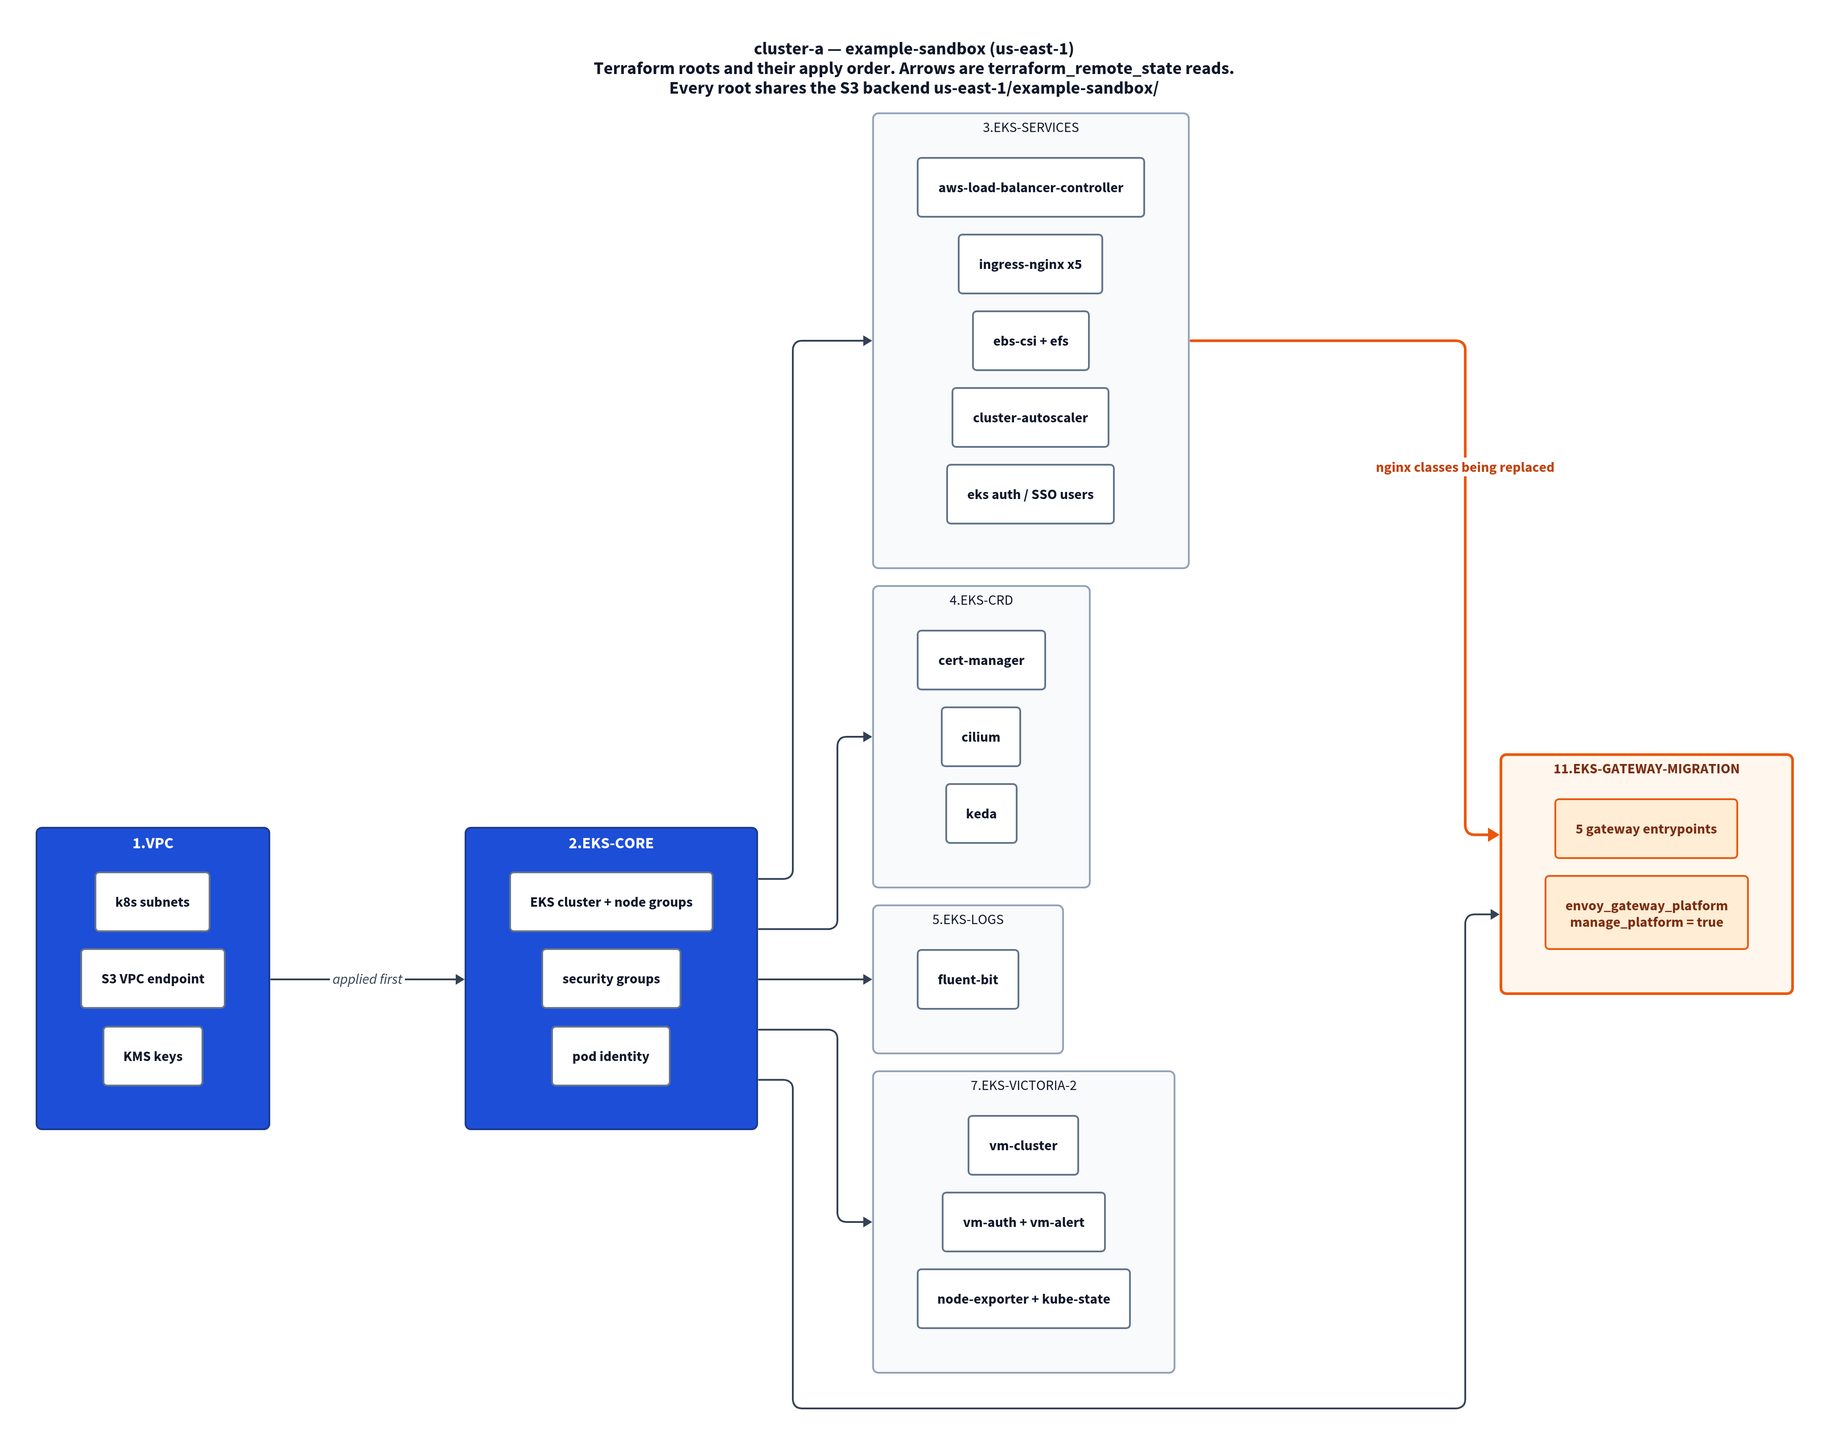
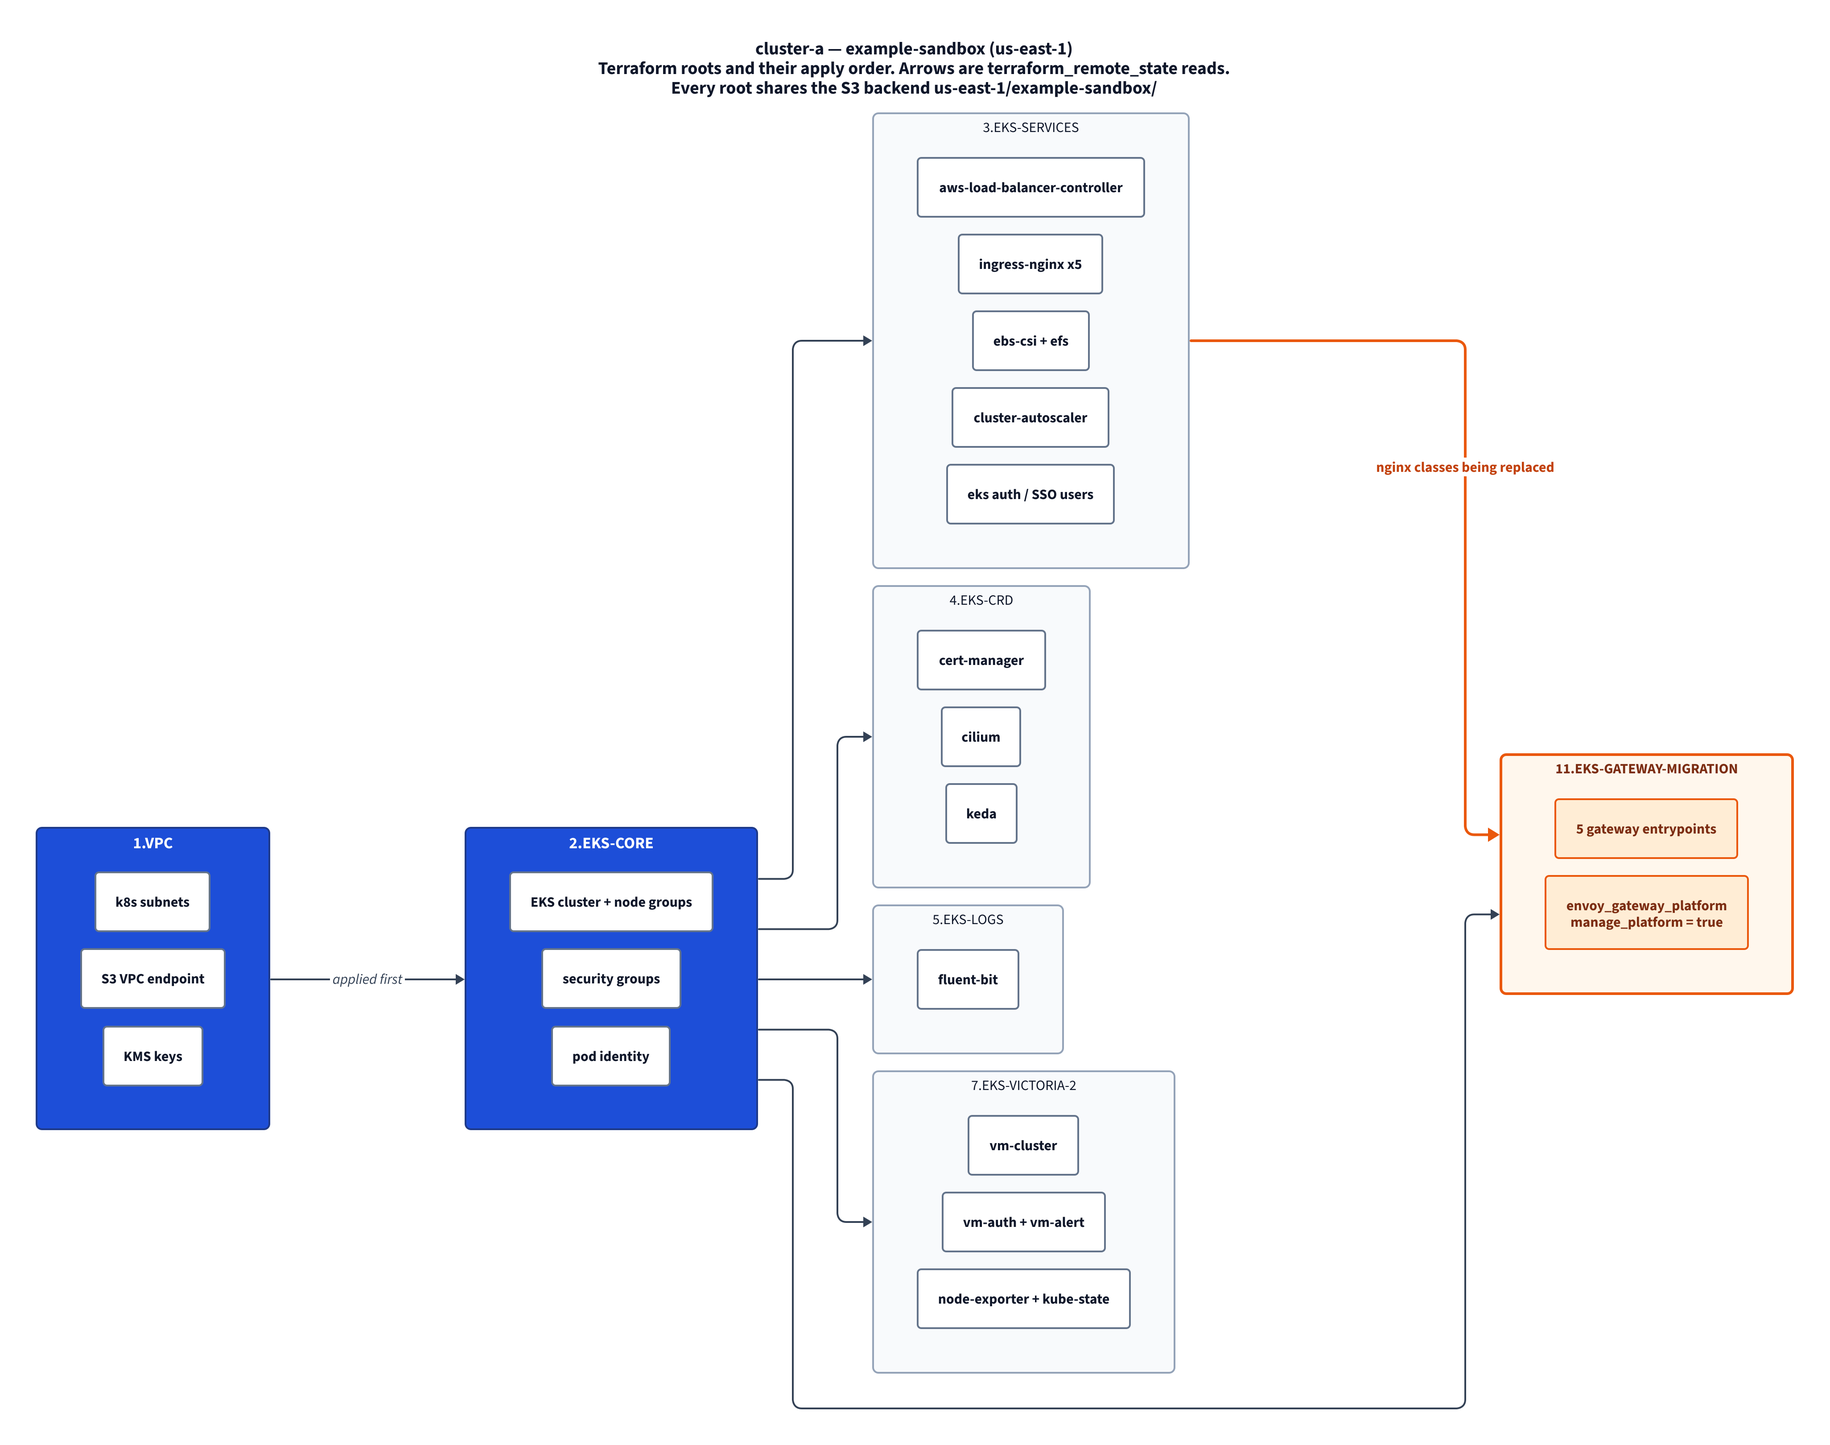
feat: the picture is rasterized without a browser, and with the right font
The browser was never a choice. D2's own PNG export downloads a Playwright
driver, and that download is dead on every platform now, not only arm64:
playwright.azureedge.net is retired and its replacement answers a redirect the
Go client inside D2 does not follow, so PLAYWRIGHT_DOWNLOAD_HOST turns the 404
into a 400. render.sh rasterizes the scratch SVG with rsvg-convert instead —
no browser, no driver cache, and the viewBox sets the canvas so there is no
window to size. A headless browser stays as the fallback; D2_BROWSER forces it.

Swapping the rasterizer alone produced a quietly wrong picture. librsvg ignores
the @font-face data URLs D2 embeds, measured the labels in DejaVu, and
unit_price_cents ran into bigint in the gallery. What D2 embeds is a cut-down
Source Sans Pro renamed per diagram, so no fontconfig alias can catch it: the
four text classes are rewritten to $D2_SANS before rasterizing, and render.sh
refuses to run when that font is missing rather than shipping the overflow.

The gallery is re-rendered through the new path — same pixel dimensions the
browser produced, RMSE 4-6% from antialiasing, no layout shift.

Changed region(s): [[0.3431, 0.0312, 0.655, 0.0623], [0.8733, 0.6235, 0.9357, 0.6546]]

diff --git a/skill/SKILL.md b/skill/SKILL.md
@@ -3,7 +3,7 @@ name: d2-diagram
 description: Draw architecture, dependency, class, network and flow diagrams as D2 source rendered to PNG. Use when asked to draw, diagram, visualize or map anything structural — infrastructure (Terraform layers, EKS/VPC topology, Kubernetes workloads, CI pipelines, request paths) as well as code (module and import graphs, class relations, call flows, data models, state machines) — when a diagram must live in git next to the code, or when Mermaid output looks too crude for the destination. Also use to redraw an existing Mermaid or Graphviz dot source at higher quality.
 license: MIT
 metadata:
-  version: "0.2.0"
+  version: "0.3.0"
   base: adapted from github.com/fmind/dotfiles/tree/main/skills/d2 (MIT)
 ---
 
@@ -17,7 +17,8 @@ Both engines ship inside the binary: `dagre` (the Dagre directed-graph library, 
 **Two files per diagram, and only two: `<name>.d2` and `<name>.png`.** SVG is never a deliverable
 here and never gets committed — see [What ships](#what-ships) before rendering anything.
 
-`d2` is installed at `/usr/local/bin/d2` (v0.7.1, linux/arm64).
+`d2` is installed at `/usr/local/bin/d2` (v0.7.1). Rasterizing also needs `rsvg-convert` and a
+Source Sans — `apt install librsvg2-bin fonts-adobe-sourcesans3`.
 
 ## Choose the tool first
 
@@ -41,6 +42,7 @@ D2 when the diagram is a maintained artifact. Mermaid when the renderer is not y
    d2 fmt cluster.d2
    d2 validate cluster.d2
    d2 cluster.d2 /tmp/cluster.svg     # scratch only — /tmp, never the repo
+   rsvg-convert -z 2 /tmp/cluster.svg -o docs/diagrams/cluster.png
    ```
 
 5. **Trust the exit code, not the presence of the file** — D2 leaves a partial render after an error.
@@ -191,7 +193,7 @@ of this skill assumes.
 
 **SVG is not a deliverable — it is an intermediate.** The only reason it exists at all is that D2's
 own PNG export is broken on this box (see [Rasterizing](#rasterizing--png-export-is-broken-on-this-box)),
-so the pipeline is `.d2` → scratch `.svg` → screenshot → `.png`. Write that SVG under `/tmp` and let
+so the pipeline is `.d2` → scratch `.svg` → `rsvg-convert` → `.png`. Write that SVG under `/tmp` and let
 it die there. Where `d2 x.d2 x.png` works directly, there is no SVG at all.
 
 Two reasons it must not be committed, both hit in practice:
@@ -217,29 +219,58 @@ A PR diff of the `.d2` is readable; that is the whole point over a hand-written 
 `viewBox` after rendering and flip `direction:` (`right` ↔ `down`) until the ratio is near 1:1 —
 on the worked example that turned 4.57:1 into 0.55:1 with a one-word change.
 
-Render the PNG at 2× so the full-size click is sharp: `--force-device-scale-factor=2` with a window
-matching the `viewBox` of the scratch SVG.
+Render the PNG at 2× so the full-size click is sharp: `rsvg-convert -z 2` on the scratch SVG.
 
 ### Rasterizing — PNG export is broken on this box
 
-`d2 x.d2 x.png` fails: it tries to fetch a Playwright driver from `playwright.azureedge.net`,
-which returns 404 for `linux-arm64`. Do not retry it, and do not report it as a D2 bug.
+`d2 x.d2 x.png` fails: it tries to fetch a Playwright driver from `playwright.azureedge.net`, a host
+Microsoft has retired. The replacement (`cdn.playwright.dev/dbazure/download/playwright`) answers
+`307` to `playwright.download.prss.microsoft.com`, and the `playwright-go` downloader inside D2 does
+not follow that redirect — pointing `PLAYWRIGHT_DOWNLOAD_HOST` at it turns the `404` into a `400`,
+not into a working driver. Measured 2026-08-20 on `linux-amd64`; the older note blaming `arm64` was
+too narrow, the driver URL is dead for every platform. Do not retry it, and do not report it as a D2
+bug.
 
-Render a scratch SVG **into `/tmp`**, screenshot it with the Chromium already in the Playwright
-cache, keep the PNG, drop the SVG:
+Render a scratch SVG **into `/tmp`** and rasterize it with `rsvg-convert` (librsvg — `apt install
+librsvg2-bin`). No browser, no Playwright cache, no headless flags:
 
 ```bash
 d2 cluster.d2 /tmp/cluster.svg
-$HOME/.cache/ms-playwright/chromium-1228/chrome-linux/chrome \
-  --headless --disable-gpu --no-sandbox --hide-scrollbars \
-  --force-device-scale-factor=2 --window-size=2400,1000 \
-  --screenshot=docs/diagrams/cluster.png "file:///tmp/cluster.svg"
+rsvg-convert -z 2 /tmp/cluster.svg -o docs/diagrams/cluster.png
 ```
+
+`-z 2` is the 2× scale that keeps the full-size click sharp — it replaces the browser's
+`--force-device-scale-factor=2`, and unlike the browser path it needs no window size, because the
+SVG's own `viewBox` sets the canvas.
+
+**librsvg has to be pointed at the font, or the labels overflow.** D2 embeds the font as a data URL
+in `@font-face`; librsvg ignores those and measures the text in whatever sans it has, so the labels
+stop fitting the boxes D2 sized for them — under DejaVu, `unit_price_cents` ran into `bigint`. What
+D2 embeds is a cut-down Source Sans Pro carrying only the glyphs used, renamed per diagram
+(`d2-<hash>-font-regular`), so no fontconfig alias can catch it. Install a Source Sans and repoint
+the four text classes at it before rasterizing:
+
+```bash
+apt install fonts-adobe-sourcesans3 librsvg2-bin
+d2 cluster.d2 /tmp/cluster.svg
+sed -E 's/font-family: "d2-[0-9]+-font-regular"/font-family: "Source Sans 3"/' \
+  /tmp/cluster.svg > /tmp/cluster.fixed.svg
+rsvg-convert -z 2 /tmp/cluster.fixed.svg -o docs/diagrams/cluster.png
+```
+
+The family name is quoted only in the class rules and never in the `@font-face` blocks, which is
+what makes that `sed` safe. Bold, italic and mono are three more classes with the same shape; add
+`font-weight: 700` and `font-style: italic` when substituting them.
+
+Checked against the old browser render of the same source: identical pixel dimensions, RMSE 4–6%
+from antialiasing alone, no layout shift.
 
 This is the one legitimate use of SVG in this skill. It never reaches the repository.
 
-Then `Read /tmp/shot.png` to actually look at it. `convert`/ImageMagick also "works" but drops all
-CSS fills and produces a grayscale image — useless for checking a diagram.
+Then `Read` the PNG to actually look at it. Two rasterizers that are **not** substitutes:
+`convert`/ImageMagick drops all CSS fills and produces a grayscale image; a headless Chromium
+screenshot works but pulls a browser onto the box for one conversion — use it only where a
+Playwright cache already exists.
 
 `--window-size` sets the canvas; too small crops, too large leaves whitespace. Iterate once.
 

diff --git a/docs/patterns.ru.md b/docs/patterns.ru.md
@@ -135,16 +135,30 @@ route53_zone.id <-> dns_record.zone_id: "1 : N"
 **Верить коду возврата, а не наличию файла.** При ошибке D2 оставляет после себя
 недособранный файл, так что «файл появился» не доказывает ничего.
 
-**Экспорт в PNG ломается на машине, а не в схеме.** `d2 x.d2 x.png` скачивает
-драйвер Playwright; на linux/arm64 эта загрузка сейчас отдаёт 404. Тогда собирай
-SVG в `/tmp` и снимай его headless-браузером:
+**Экспорт в PNG ломается на машине, а не в схеме.** `d2 x.d2 x.png` сначала
+скачивает драйвер Playwright, и эта загрузка мертва на всех платформах:
+`playwright.azureedge.net` отключён, а заменивший его хост отвечает
+перенаправлением, по которому Go-клиент внутри D2 не идёт. Собирай SVG в `/tmp`
+и растеризуй его через `rsvg-convert` (librsvg, `apt install librsvg2-bin`):
 
 ```bash
 d2 cluster.d2 /tmp/cluster.svg
-chrome --headless --disable-gpu --no-sandbox --hide-scrollbars \
-  --force-device-scale-factor=2 --window-size=2400,1000 \
-  --screenshot=docs/diagrams/cluster.png "file:///tmp/cluster.svg"
+rsvg-convert -z 2 /tmp/cluster.svg -o docs/diagrams/cluster.png
 ```
+
+**librsvg надо указать шрифт.** D2 встраивает шрифт как data-URL в `@font-face`,
+а librsvg такие шрифты не читает — и меряет подписи тем шрифтом, который нашёлся
+в системе, после чего они перестают помещаться в рамки, рассчитанные D2: под
+DejaVu `unit_price_cents` налез на `bigint`. Встраивается урезанная копия Source
+Sans Pro — только использованные знаки, переименованная под каждую схему.
+Поэтому поставь Source Sans (`apt install fonts-adobe-sourcesans3`) и перед
+растеризацией переведи на него четыре текстовых класса. `render.sh` так и
+делает: имя семейства закавычено только в правилах классов и никогда в блоках
+`@font-face`, поэтому `sed` здесь не промахнётся.
+
+**Headless-браузер по-прежнему работает.** `render.sh` берёт его, когда librsvg
+в системе нет, а `D2_BROWSER` заставляет использовать именно его. Это просто
+более тяжёлый путь — целый браузер ради одной конвертации.
 
 **ImageMagick заменой не служит.** `convert x.svg x.png` формально работает и
 выбрасывает все заливки, отдавая серую картинку, — для проверки схемы бесполезно.

diff --git a/docs/patterns.en.md b/docs/patterns.en.md
@@ -133,15 +133,30 @@ two nodes. Quote any label with punctuation in it.
 fails, so "the file exists" proves nothing.
 
 **PNG export can fail on the machine, not in the diagram.** `d2 x.d2 x.png`
-downloads a Playwright driver; on linux/arm64 that download currently 404s.
-Render an SVG into `/tmp` and screenshot it with a headless browser instead:
+downloads a Playwright driver first, and that download is dead on every
+platform: `playwright.azureedge.net` is retired, and the host that replaced it
+answers with a redirect the Go client inside D2 does not follow. Render an SVG
+into `/tmp` and rasterize it with `rsvg-convert` (librsvg, `apt install
+librsvg2-bin`):
 
 ```bash
 d2 cluster.d2 /tmp/cluster.svg
-chrome --headless --disable-gpu --no-sandbox --hide-scrollbars \
-  --force-device-scale-factor=2 --window-size=2400,1000 \
-  --screenshot=docs/diagrams/cluster.png "file:///tmp/cluster.svg"
+rsvg-convert -z 2 /tmp/cluster.svg -o docs/diagrams/cluster.png
 ```
+
+**librsvg has to be pointed at the font.** D2 embeds the font as a data URL in
+`@font-face`, which librsvg ignores; it then measures the labels in whatever
+sans it happens to have, and they stop fitting the boxes D2 sized for them —
+under DejaVu, `unit_price_cents` ran into `bigint`. What D2 embeds is a cut-down
+Source Sans Pro carrying only the glyphs used, renamed per diagram, so install a
+Source Sans (`apt install fonts-adobe-sourcesans3`) and repoint the four text
+classes at it before rasterizing. `render.sh` does this: the family name is
+quoted only in the class rules and never in the `@font-face` blocks, which is
+what makes a `sed` safe here.
+
+**A headless browser still works.** `render.sh` uses one when there is no
+librsvg, and `D2_BROWSER` forces that path. It is only the heavier way round — a
+whole browser for one conversion.
 
 **ImageMagick is not a substitute.** `convert x.svg x.png` "works" and drops
 every CSS fill, producing a grayscale image — useless for checking a diagram.

diff --git a/CHANGELOG.md b/CHANGELOG.md
@@ -1,5 +1,30 @@
 # Changelog
 
+## 0.3.0 — 2026-08-20
+
+### Changed
+
+- **`render.sh` rasterizes with `rsvg-convert` instead of a headless browser.**
+  The old path was never a choice, it was a workaround: D2's own PNG export
+  downloads a Playwright driver, and that download is now dead on every platform
+  — `playwright.azureedge.net` is retired, and the host that replaced it answers
+  with a redirect the Go client inside D2 does not follow, so pointing
+  `PLAYWRIGHT_DOWNLOAD_HOST` at it turns the 404 into a 400. The previous note
+  blaming `linux/arm64` was too narrow. librsvg needs no browser and no driver
+  cache, and the SVG's own `viewBox` sets the canvas, so there is no window to
+  size. A headless browser stays as the fallback, and `D2_BROWSER` still forces
+  it.
+- **The scratch SVG is repointed at an installed font before rasterizing.**
+  librsvg ignores the `@font-face` data URLs D2 embeds, so left alone it
+  measured the labels in DejaVu and they stopped fitting the boxes D2 had sized
+  — `unit_price_cents` ran into `bigint` in the gallery. What D2 embeds is a
+  cut-down Source Sans Pro renamed per diagram, so no fontconfig alias can catch
+  it; `render.sh` rewrites the four text classes to `$D2_SANS` (default
+  `Source Sans 3`) and refuses to run when that font is absent rather than
+  producing a quietly wrong picture.
+- **The gallery was re-rendered** through the new path. Same pixel dimensions as
+  the browser produced, RMSE 4–6% from antialiasing, no layout shift.
+
 ## 0.2.0 — 2026-08-18
 
 The release that stopped taking its own word for things. Every capability the

diff --git a/docs/design.ru.md b/docs/design.ru.md
@@ -57,8 +57,8 @@ block» — и на вкладке Code, и на Preview. У читателя о
 Клик открывает просмотрщик GitHub в полном разрешении. PNG собирается в двойном
 масштабе, чтобы этот просмотр был чётким.
 
-SVG остаётся только промежуточным шагом: `d2` собирает его, headless-браузер
-делает снимок, PNG сохраняется, а SVG умирает в `/tmp`. Там, где `d2 x.d2 x.png`
+SVG остаётся только промежуточным шагом: `d2` собирает его, `rsvg-convert`
+растеризует, PNG сохраняется, а SVG умирает в `/tmp`. Там, где `d2 x.d2 x.png`
 работает напрямую, SVG не появляется вовсе.
 
 Вторая причина не коммитить его: два собранных файла, претендующих на одну и ту

diff --git a/docs/design.en.md b/docs/design.en.md
@@ -56,8 +56,8 @@ So the committed artefact is a PNG, embedded wrapped in a link to itself:
 The click then opens GitHub's image viewer at full resolution. The PNG is
 rendered at 2× so that view is sharp.
 
-SVG survives only as an intermediate: `d2` renders one, a headless browser
-screenshots it, the PNG is kept and the SVG is dropped in `/tmp`. Where `d2
+SVG survives only as an intermediate: `d2` renders one, `rsvg-convert`
+rasterizes it, the PNG is kept and the SVG is dropped in `/tmp`. Where `d2
 x.d2 x.png` works directly there is no SVG at all.
 
 A second reason not to commit it: two rendered files claiming to be the same
